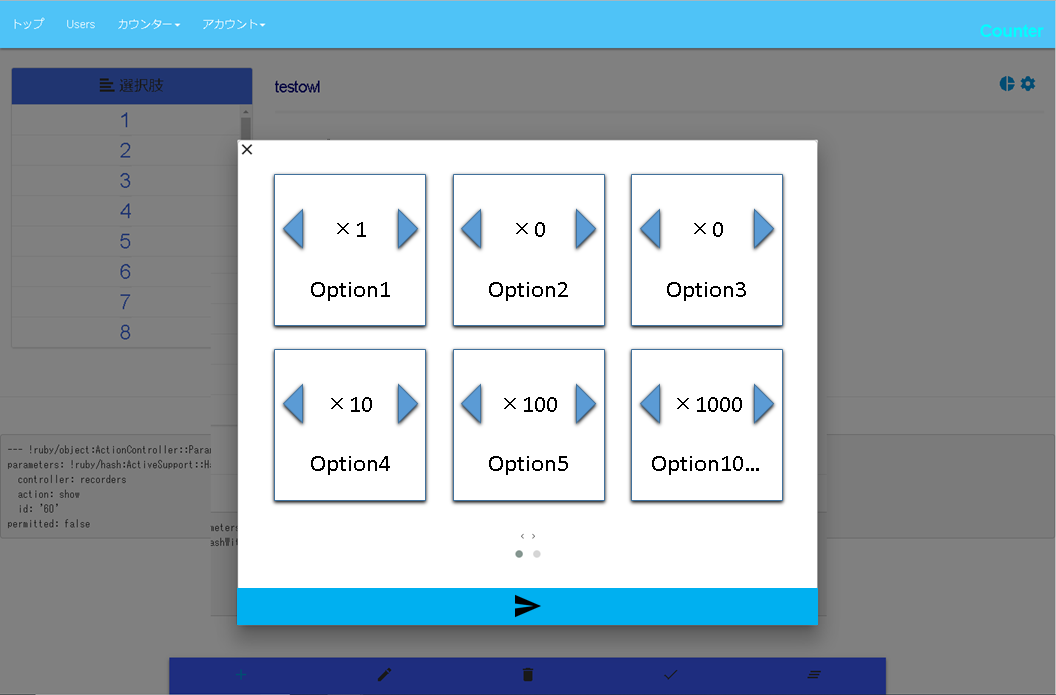
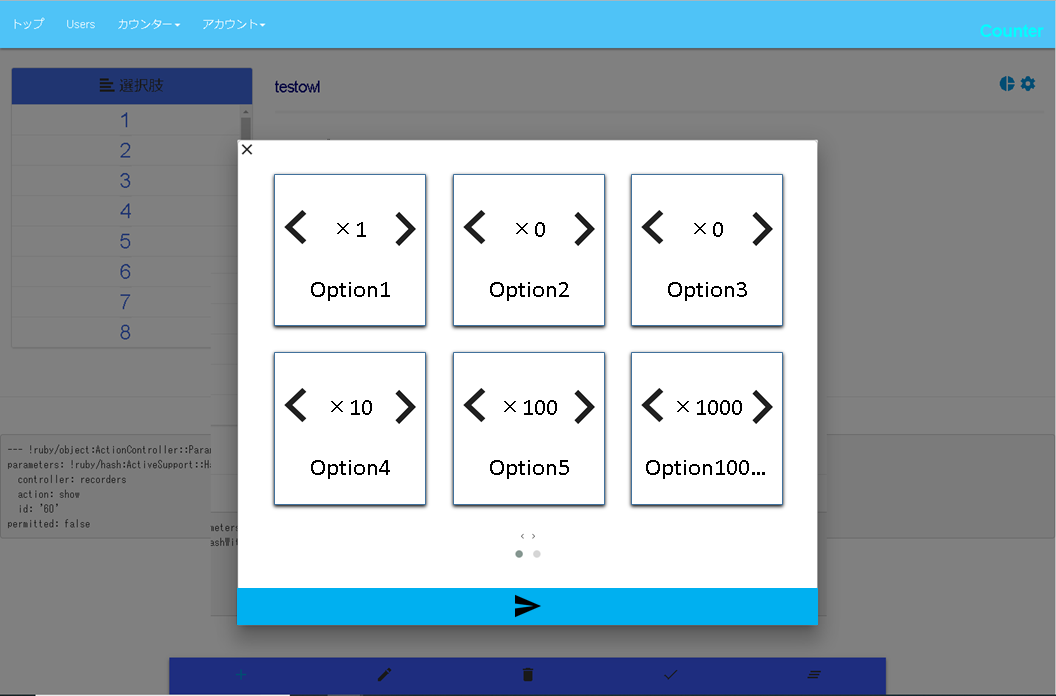
モーダルフォームの hidden 属性の input を表示

diff --git a/app/assets/javascripts/application.js b/app/assets/javascripts/application.js
@@ -20,6 +20,15 @@
 //= require_tree .
 
 $(function() {
+  //options-form
+  $(document).on('click', '.options-form-trigger', function(){
+    $('[class^=form-option-]').each(function(i, elem) {
+      console.log(i + $(elem).attr("class"));
+      hidden_count = $(elem).find(".hidden-count").val();
+      $(elem).find(".count").text(hidden_count);
+    });
+  });
+
   //checkbox
   $(document).on('click', '.check_all', function(){
     $('input[name="ids[]"]').prop('checked', true);

diff --git a/app/assets/stylesheets/custom.scss b/app/assets/stylesheets/custom.scss
@@ -722,7 +722,7 @@ input:enabled.plural_action_button {
 //options form
 $count-btn-size: 52px;
 #modal-options-form {
-  .count-buttons {
+  .option {
     display: inline-block;
     text-align: center;
     .side-btn {
